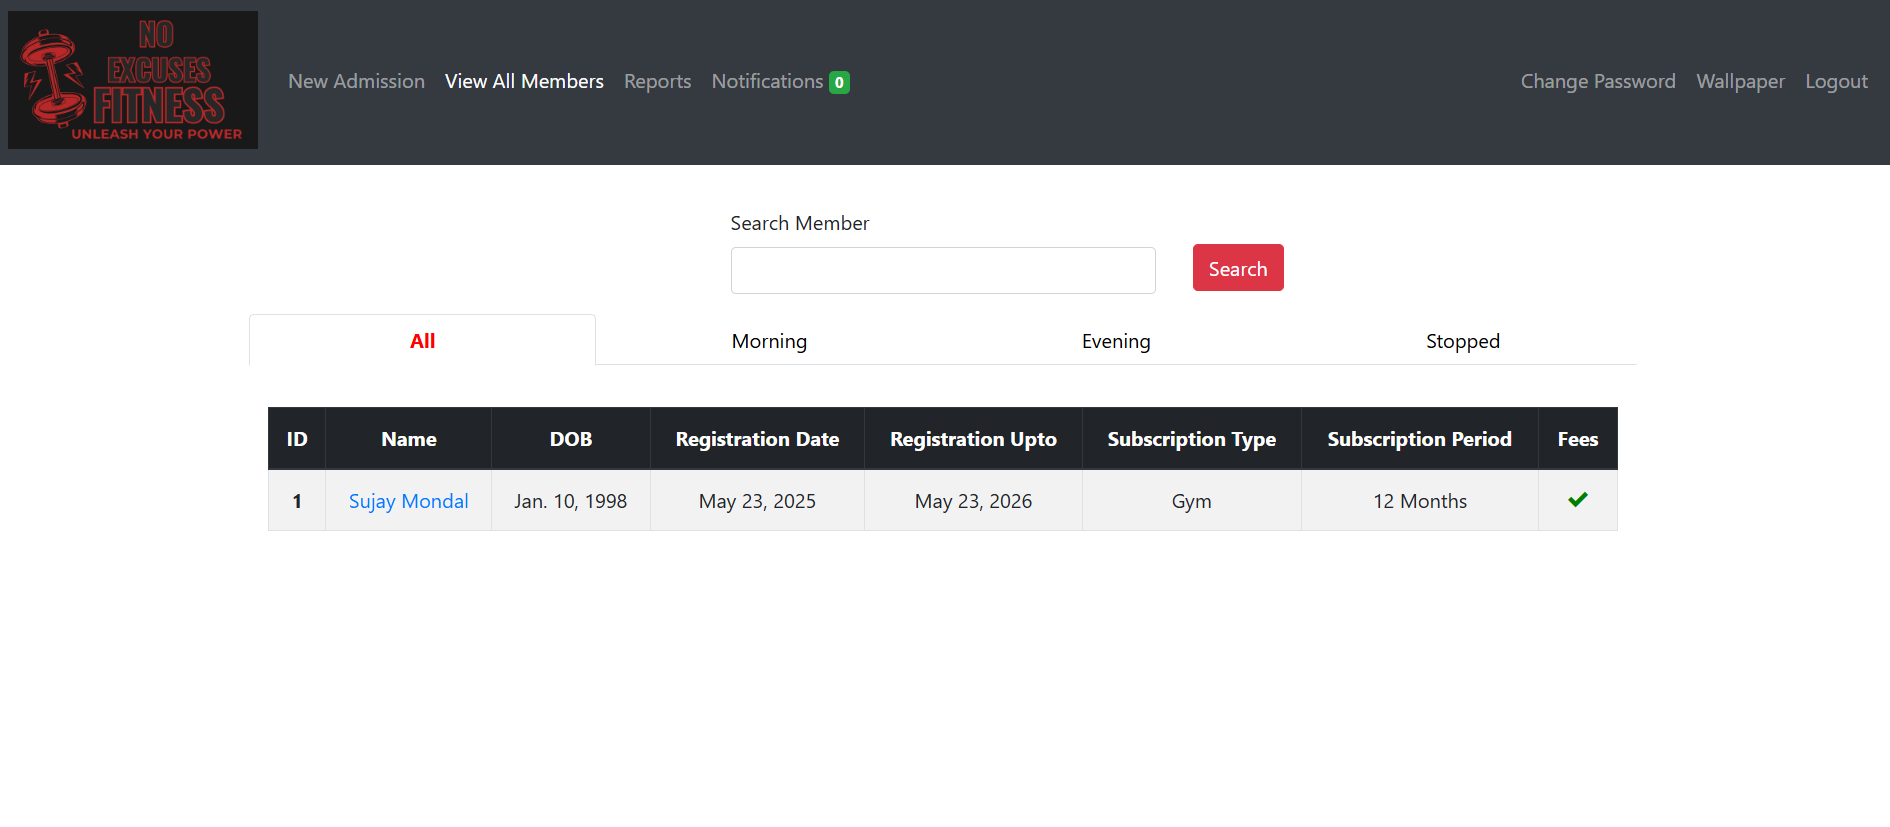
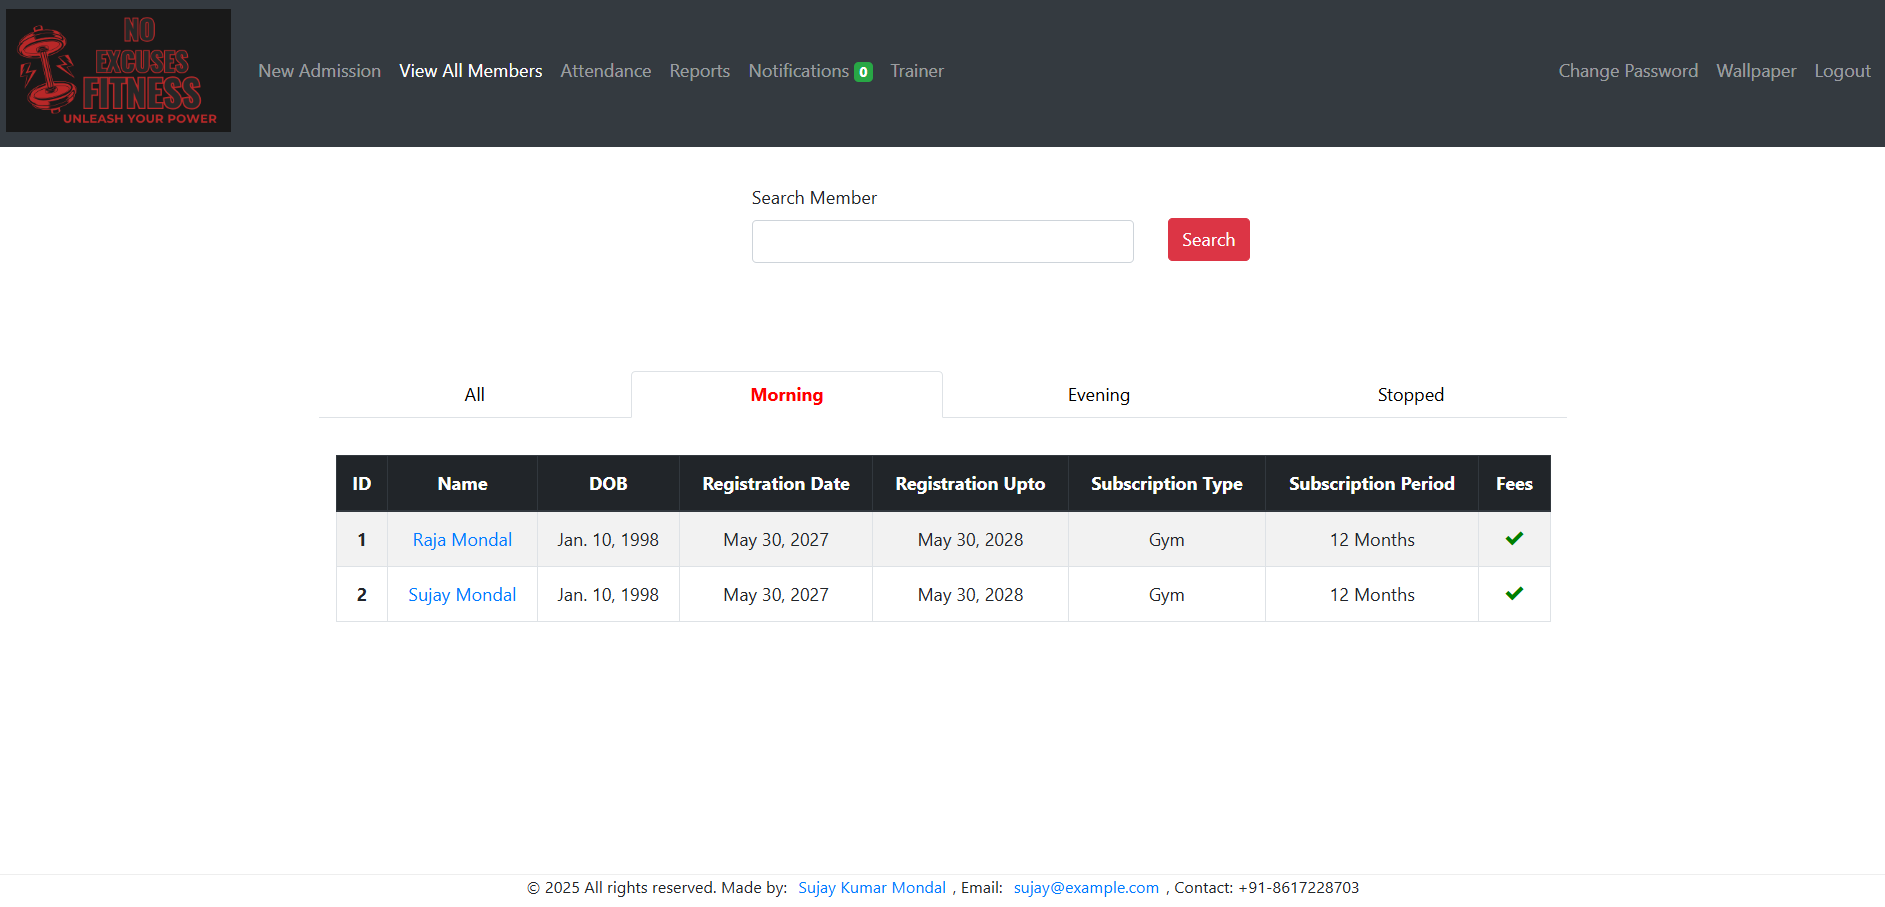
Updated README file, trainer & footer html

diff --git a/templates/footer.html b/templates/footer.html
@@ -3,7 +3,7 @@
       © {% now "Y" %} All rights reserved. Made by: 
       <a href="https://www.linkedin.com/in/sujaykumarmondal" target="_blank">Sujay Kumar Mondal</a>, 
       Email: <a href="mailto:sujay@example.com">sujay@example.com</a>, 
-      Contact: +91-9876543210
+      Contact: +91-8617228703
     </p>
   </footer>
   

diff --git a/trainer/templates/trainer.html b/trainer/templates/trainer.html
@@ -45,7 +45,7 @@
         margin-top: 20px;
         text-align: center;
         white-space: nowrap; /* prevent wrapping */
-        margin-left: 330px;
+        margin-left: 50px;
     }
     footer.text-center p {
         margin: 0;

diff --git a/README.md b/README.md
@@ -4,9 +4,10 @@ A modern, user-friendly web application for managing gym memberships, payments, 
 
 ![Login Page](images/login_page.png)
 ![Dashboard](images/dashboard.png)
-![New Admission](images/new_addmission.png)
+![New Admission](images/new_admission.png)
 ![View All Members](images/view_all_members.png)
 ![Member Attendance](images/attendance.png)
+![Member Attendance](images/edit_attendance.png)
 ![Generate Reports](images/reports.png)
 ![Notifications](images/notifications.png)
 ![Trainer](images/trainer.png)
